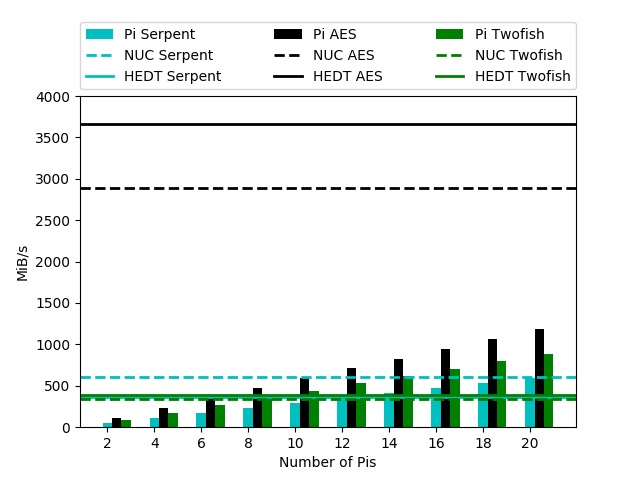
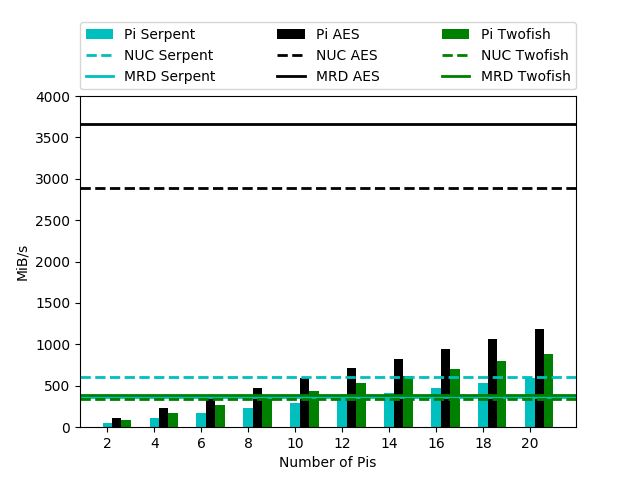
MRD added

diff --git a/plots/barplot_256.py b/plots/barplot_256.py
@@ -28,21 +28,21 @@ pi_aecrypt = [71.51, 148.29, 224.71, 300.1, 376.4, 452.16, 527.57, 603.79, 679.9
 ######################## DECRYPT DATA #########################
 
 ###SERPENT DATA
-nuc_secrypt = 581.1
-hpc_secrypt = 374.3 
-pi_tecrypt = [56.94, 117.47, 177.78, 237.44, 297.69, 357.55, 417.43, 477.64, 538.07, 596.07]
+#nuc_secrypt = 581.1
+#hpc_secrypt = 374.3 
+#pi_tecrypt = [56.94, 117.47, 177.78, 237.44, 297.69, 357.55, 417.43, 477.64, 538.07, 596.07]
 
 
 ###TWOFISH data
-nuc_tecrypt = 340.4
-hpc_tecrypt = 378.7
-pi_tdcrypt = [84.24, 174.39, 263.29, 351.52, 440.33, 528.99, 616.92, 706.24, 795.29, 881.62]
+#nuc_tecrypt = 340.4
+#hpc_tecrypt = 378.7
+#pi_tdcrypt = [84.24, 174.39, 263.29, 351.52, 440.33, 528.99, 616.92, 706.24, 795.29, 881.62]
 
 
 ###AES DATA
-nuc_aecrypt = 2335.6 
-hpc_aecrypt =  3164.7
-pi_aecrypt = [85.07, 176.64, 267.42, 357.07, 447.79, 538.5, 628.38, 719.12, 810.24, 897.66]
+#nuc_aecrypt = 2335.6 
+#hpc_aecrypt =  3164.7
+#pi_aecrypt = [85.07, 176.64, 267.42, 357.07, 447.79, 538.5, 628.38, 719.12, 810.24, 897.66]
 
 
 #creates seperate plots for encrypt and decrypt --uncomment the one you need
@@ -59,15 +59,15 @@ bar_width=0.2
 ax.bar(x, pi_aecrypt, bar_width, color='c', label="Pi Serpent")
 
 
-plt.axhline(y=hpc_secrypt, color='c', linestyle='-', label="HEDT Serpent", linewidth=2)
+plt.axhline(y=hpc_secrypt, color='c', linestyle='-', label="MRD Serpent", linewidth=2)
 plt.axhline(y=nuc_secrypt, color='c', linestyle='--', label="NUC Serpent", linewidth=2)
 
 ax.bar(x+bar_width, pi_aecrypt, bar_width, color='k', label="Pi AES")
-plt.axhline(y=hpc_aecrypt, color='k', linestyle='-', label="HEDT AES", linewidth=2)
+plt.axhline(y=hpc_aecrypt, color='k', linestyle='-', label="MRD AES", linewidth=2)
 plt.axhline(y=nuc_aecrypt, color='k', linestyle='--', label="NUC AES", linewidth=2)
 
 ax.bar(x+bar_width+bar_width, pi_tecrypt, bar_width, color='g', label="Pi Twofish")
-plt.axhline(y=hpc_tecrypt, color='g', linestyle='-', label="HEDT Twofish", linewidth=2)
+plt.axhline(y=hpc_tecrypt, color='g', linestyle='-', label="MRD Twofish", linewidth=2)
 plt.axhline(y=nuc_tecrypt, color='g', linestyle='--', label="NUC Twofish", linewidth=2)
 
 
@@ -83,7 +83,7 @@ ax.legend([handles[idx] for idx in order],[labels[idx] for idx in order],
 bbox_to_anchor=(0., 1.02, 1., 0.2), loc='lower left', ncol=3,  mode="expand", borderaxespad=0.)
 plt.subplots_adjust(top=0.8)
 
-ax.set_ylim([0,4000])
+ax.set_ylim([0,1500])
 #plt.xlim([0,x.size])
 #plt.axis('tight')
 

diff --git a/plots/barplot_128.py b/plots/barplot_128.py
@@ -35,19 +35,19 @@ pi_aecrypt = [95.26, 197.74, 299.99, 401.5, 503.73, 602.6, 703.38, 806.23, 909.0
 ######################## DECRYPT DATA #########################
 
 ###SERPENT
-#nuc_secrypt =  610.5 
-#hpc_secrypt = 360.6
-#pi_secrypt = [56.36, 116.87, 177.2, 236.77, 297.08, 357.06, 416.78, 477.14, 537.23,594.79]
+nuc_secrypt =  610.5 
+hpc_secrypt = 360.6
+pi_secrypt = [56.36, 116.87, 177.2, 236.77, 297.08, 357.06, 416.78, 477.14, 537.23,594.79]
 
 ###TWOFISH data
-#nuc_tecrypt = 341.1
-#hpc_tecrypt = 386.6 
-#pi_tecrypt = [83.62, 173.32, 262.44, 350.58, 439.68, 528.52, 616.56, 705.74, 794.89, 880.6]
+nuc_tecrypt = 341.1
+hpc_tecrypt = 386.6 
+pi_tecrypt = [83.62, 173.32, 262.44, 350.58, 439.68, 528.52, 616.56, 705.74, 794.89, 880.6]
 
 ###AES DATA
-#nuc_aecrypt =  2889.1
-#hpc_aecrypt = 3663.1
-#pi_aecrypt = [112.01, 232.32, 352.67, 471.62, 591.98, 710.41,  827.78, 949.13, 1069.88, 1183.05]
+nuc_aecrypt =  2889.1
+hpc_aecrypt = 3663.1
+pi_aecrypt = [112.01, 232.32, 352.67, 471.62, 591.98, 710.41,  827.78, 949.13, 1069.88, 1183.05]
 
 
 #creates seperate plots for encrypt and decrypt --uncomment the one you need
@@ -60,15 +60,15 @@ ax.set_xlabel('Number of Pis')
 bar_width=0.2
 
 ax.bar(x, pi_secrypt, bar_width, color='c', label="Pi Serpent")
-plt.axhline(y=hpc_secrypt, color='c', linestyle='-', label="HEDT Serpent", linewidth=2)
+plt.axhline(y=hpc_secrypt, color='c', linestyle='-', label="MRD Serpent", linewidth=2)
 plt.axhline(y=nuc_secrypt, color='c', linestyle='--', label="NUC Serpent", linewidth=2)
 
 ax.bar(x+bar_width, pi_aecrypt, bar_width, color='k', label="Pi AES")
-plt.axhline(y=hpc_aecrypt, color='k', linestyle='-', label="HEDT AES", linewidth=2)
+plt.axhline(y=hpc_aecrypt, color='k', linestyle='-', label="MRD AES", linewidth=2)
 plt.axhline(y=nuc_aecrypt, color='k', linestyle='--', label="NUC AES", linewidth=2)
 
 ax.bar(x+bar_width+bar_width, pi_tecrypt, bar_width, color='g', label="Pi Twofish")
-plt.axhline(y=hpc_tecrypt, color='g', linestyle='-', label="HEDT Twofish", linewidth=2)
+plt.axhline(y=hpc_tecrypt, color='g', linestyle='-', label="MRD Twofish", linewidth=2)
 plt.axhline(y=nuc_tecrypt, color='g', linestyle='--', label="NUC Twofish", linewidth=2)
 
 
@@ -83,7 +83,7 @@ ax.legend([handles[idx] for idx in order],[labels[idx] for idx in order],
 bbox_to_anchor=(0., 1.02, 1., 0.2), loc='lower left', ncol=3,  mode="expand", borderaxespad=0.)
 plt.subplots_adjust(top=0.8)
 
-ax.set_ylim([0,2000])
+ax.set_ylim([0,4000])
 
 
 
